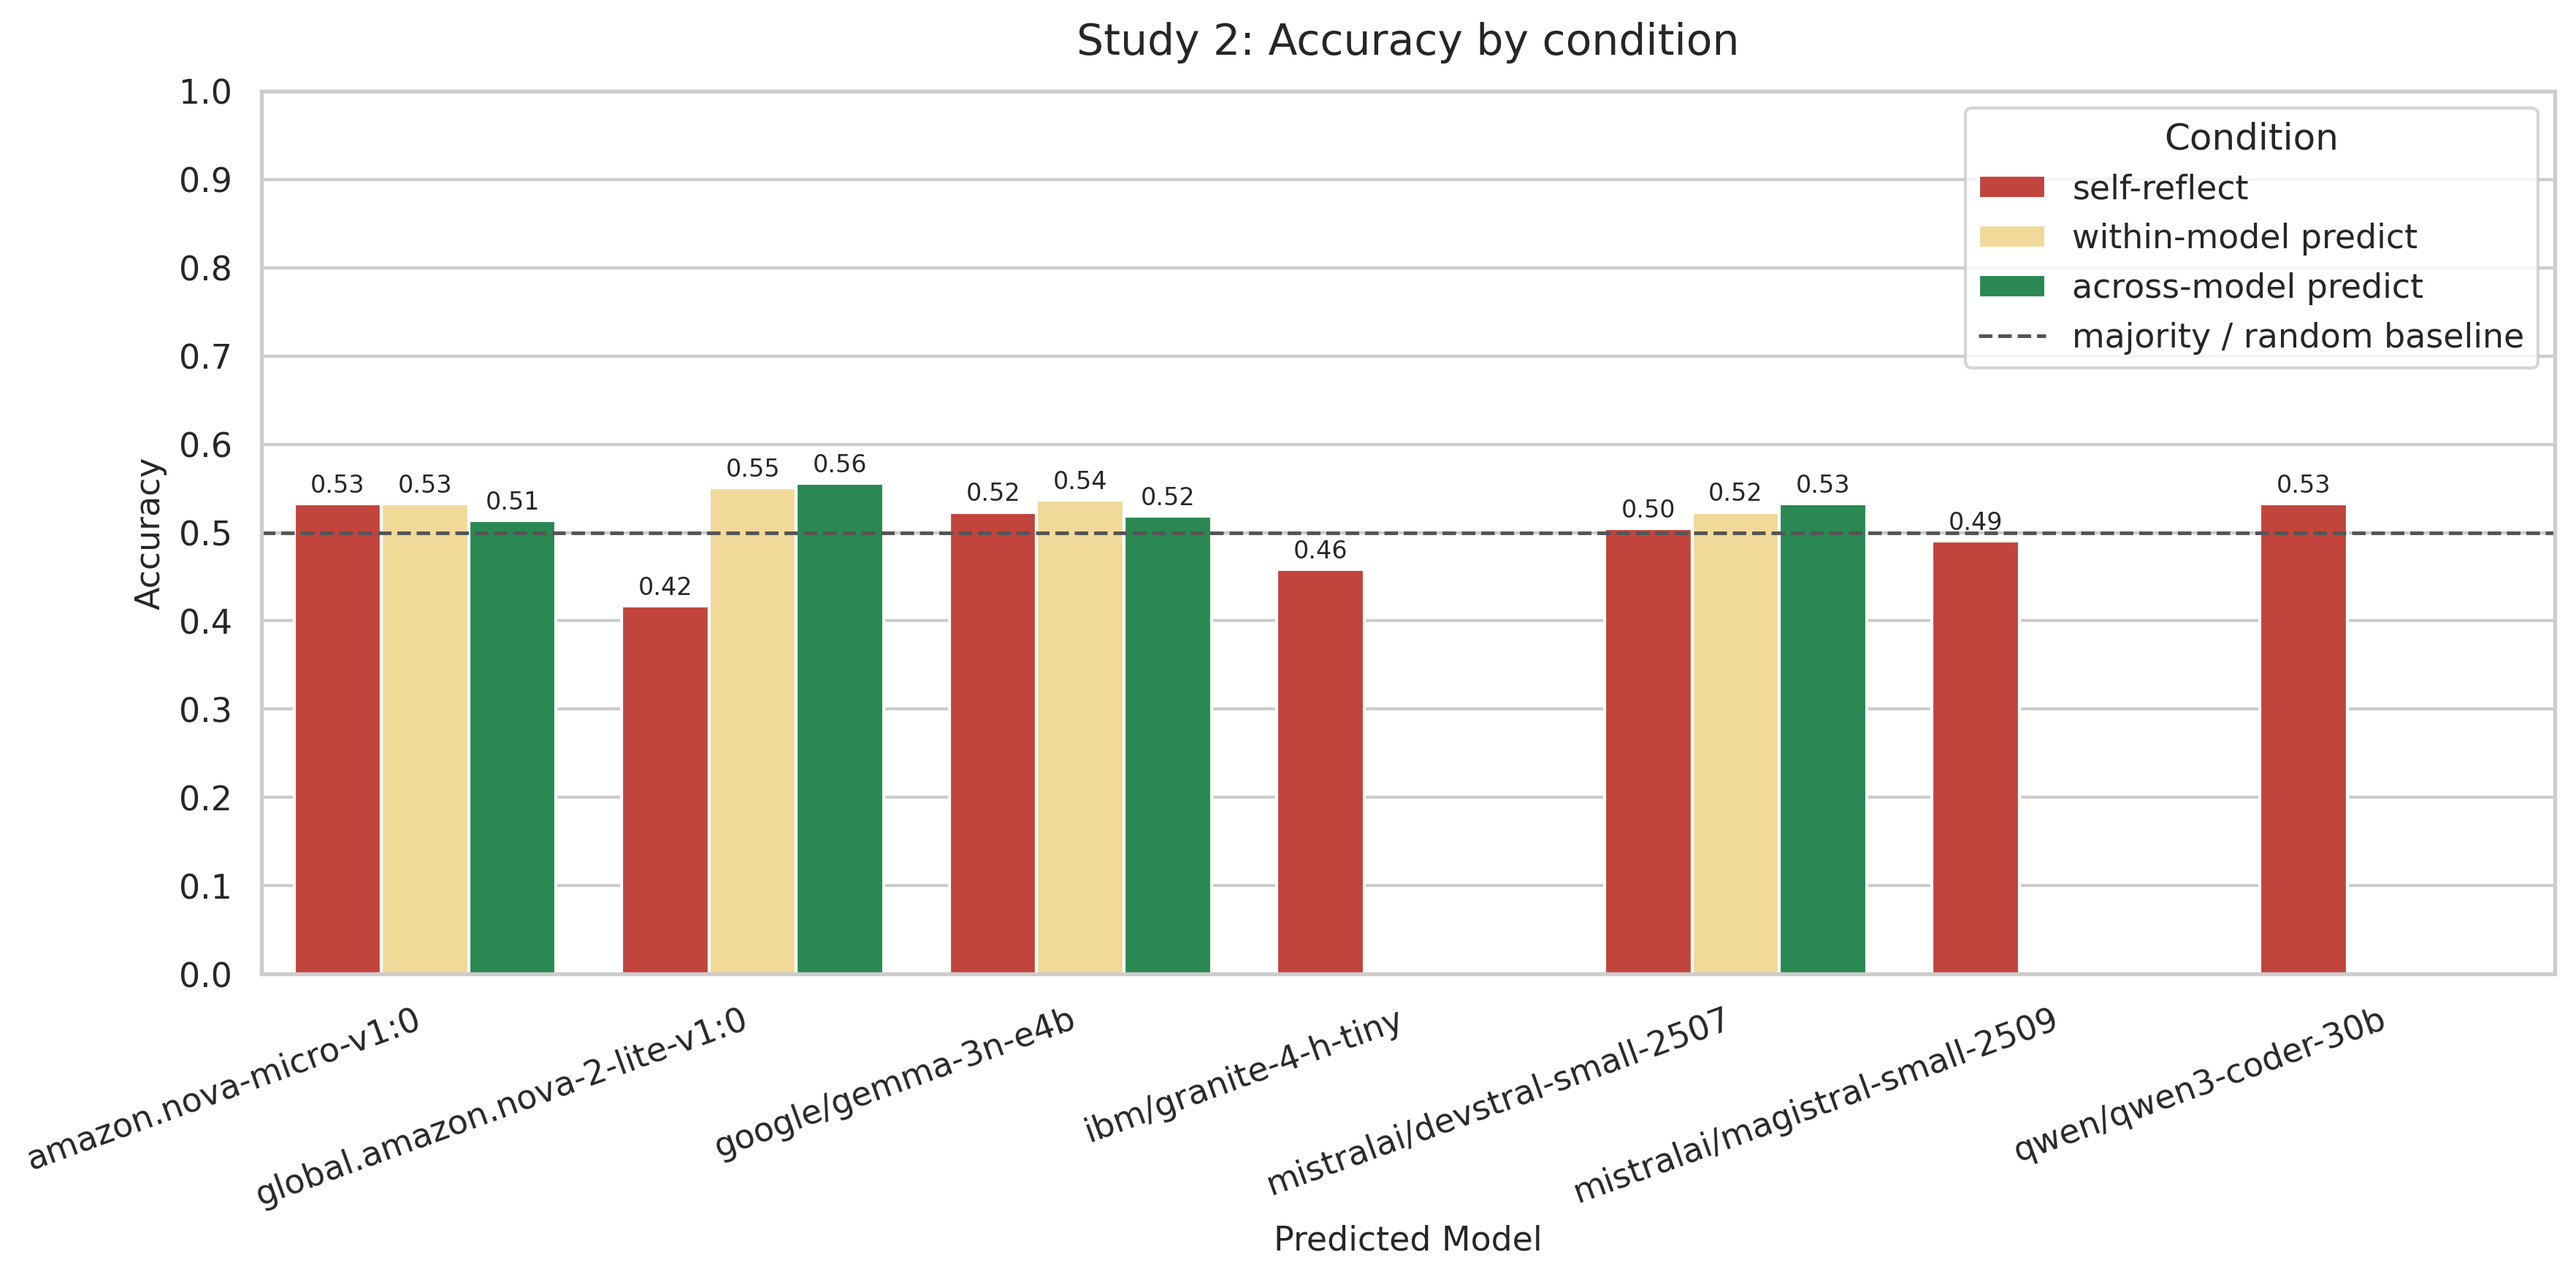
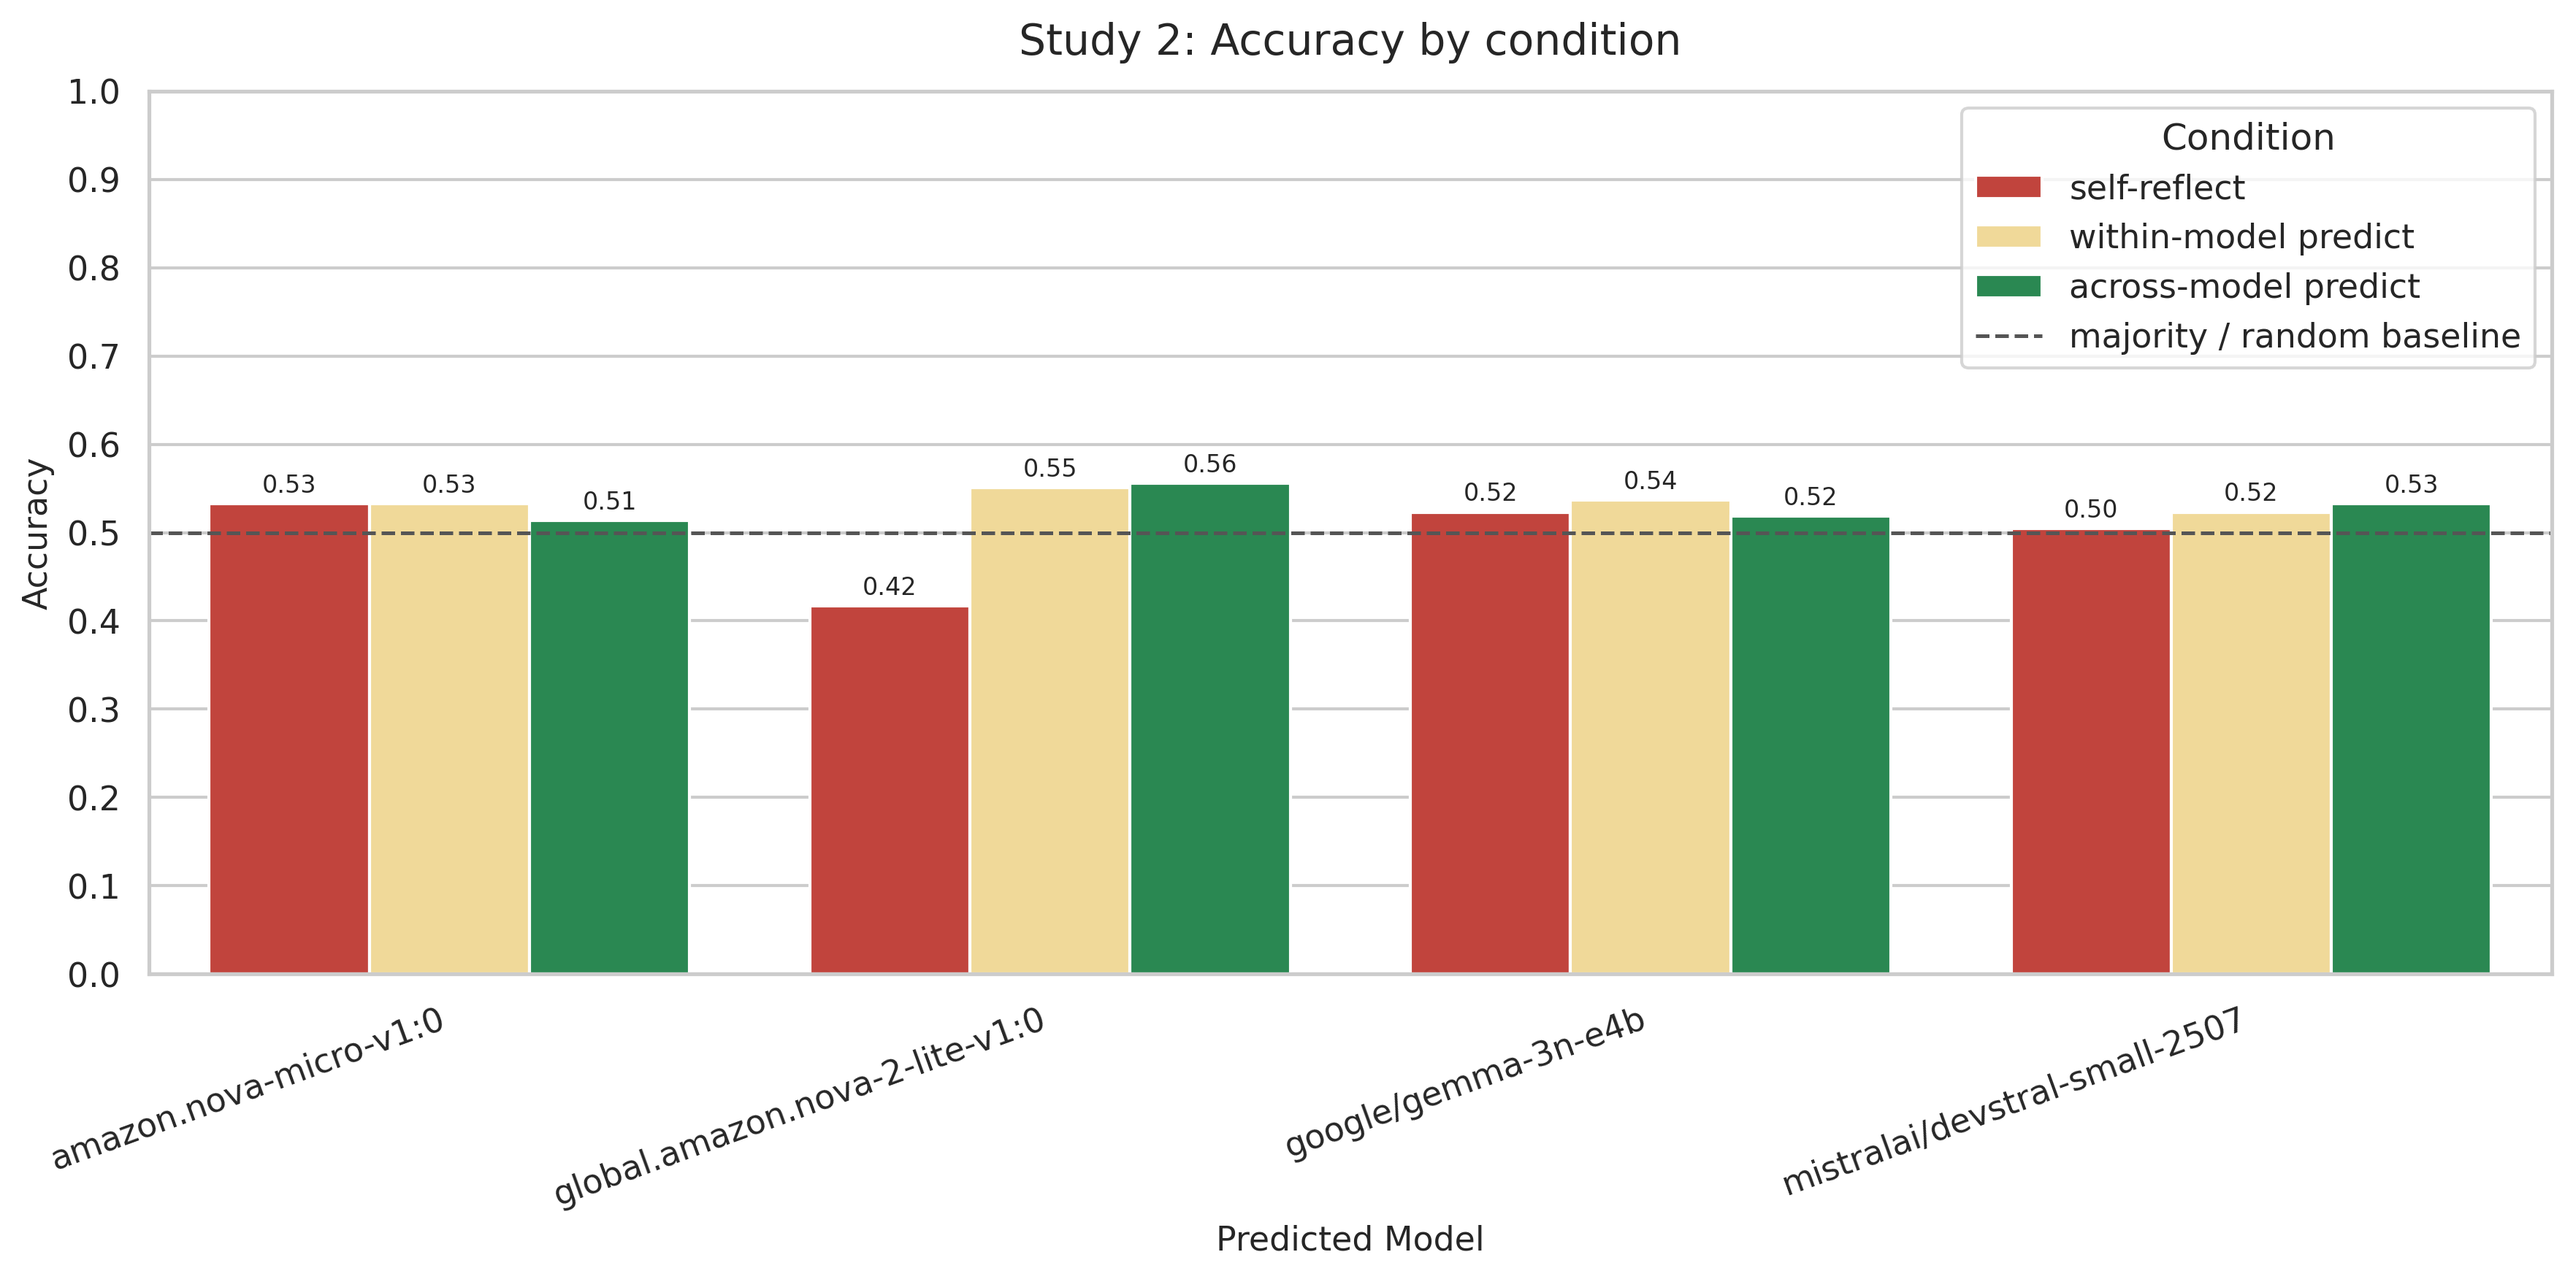
fix(blog): fix Spearman wording, clarify effect size baseline, regenerate 4-model accuracy chart
- Correct Spearman section: "有意な正の相関" → "有意な相関" with accurate 3-condition breakdown
- Clarify effect size reference target as ELEPHANT_KANA (ゾウ)
- Add --models filter arg to study2_accuracy.py for selective model plotting
- Regenerate accuracy chart with 4 blog-relevant models only

diff --git a/src/visualization/study2_accuracy.py b/src/visualization/study2_accuracy.py
@@ -119,12 +119,21 @@ def parse_args() -> argparse.Namespace:
         default=Path.cwd() / "output" / "figures" / "study2_accuracy",
         help="Output path prefix without extension",
     )
+    parser.add_argument(
+        "--models",
+        type=str,
+        default=None,
+        help="Comma-separated list of predictor_model values to include (default: all)",
+    )
     return parser.parse_args()
 
 
 def main() -> None:
     args = parse_args()
     df = load_summary(args.summary_path)
+    if args.models:
+        model_list = [m.strip() for m in args.models.split(",")]
+        df = df[df["predictor_model"].isin(model_list)].reset_index(drop=True)
     if df.empty:
         raise ValueError(
             "No rows available in summary.csv for expected Study 2 conditions"

diff --git a/docs/blog_post.md b/docs/blog_post.md
@@ -133,7 +133,7 @@ Study 2 予測プロンプト:
 主な知見:
 
 - **"const"（NaN）= 温度非感度の最も強い証拠**: HIGH 率が全温度で同一値（多くは 0.0 または 1.0）。CRAZY 条件と FACTUAL 条件の大半がこれに該当する。
-- **有意な正の相関（ρ > 0, p < 0.05）はごく少数**: 48 条件中、有意（p < 0.05）は GEMMA_3N_E4B の NORMAL-MURLOC（ρ = 0.71）と NOVA_2_LITE の NORMAL 条件 2 ターゲットのみ。ただし NOVA_2_LITE では符号が**負**（温度が上がると HIGH 率が**下がる**）。
+- **有意な相関（p < 0.05）はごく少数**: 48 条件中わずか 3 条件。正の相関は GEMMA_3N_E4B の NORMAL-MURLOC（ρ = 0.71）の 1 条件のみ。残り 2 条件は NOVA_2_LITE の NORMAL で符号が**負**（温度が上がると HIGH 率が**下がる**）。
 - **prompt_type 別の概要**:
 
 | モデル | FACTUAL mean ρ | NORMAL mean ρ | CRAZY mean ρ |
@@ -180,7 +180,7 @@ M_prompt（温度なし・prompt_type あり）が 3/4 モデルで最良。
 
 ロジスティック回帰の予測確率を用いた効果量（確率差）:
 
-- **温度効果**: P(HIGH | temp=0.9) − P(HIGH | temp=0.1)（NORMAL 条件、ベースターゲット固定）
+- **温度効果**: P(HIGH | temp=0.9) − P(HIGH | temp=0.1)（NORMAL 条件、参照ターゲット = ゾウ〈ELEPHANT_KANA〉で固定）
 - **プロンプト効果**: P(HIGH | CRAZY) − P(HIGH | FACTUAL)（temp=0.5 固定）
 
 ![効果量比較](assets/blog_effect_size.png)
